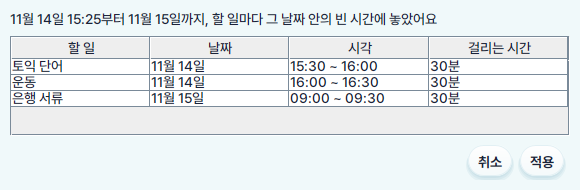
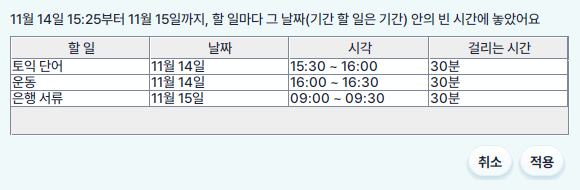
feat(schedule): 반복과 기간 할 일 2, 입력 창과 목록 1/5 (#177)

Changed region(s): [[0.5276, 0.0526, 0.931, 0.1316]]

diff --git a/prototype/qa/planningpet/qa/Flows345.java b/prototype/qa/planningpet/qa/Flows345.java
@@ -51,7 +51,7 @@ final class Flows345 {
         return q.app.store.tasks.stream().filter(t -> t.title.equals(title) && t.date.getDayOfWeek() == dow).count();
     }
 
-    /** 일정관리에서 일정 추가로 고정 일정을 매주 반복으로 넣는다. */
+    /** 일정관리에서 일정 추가로 고정 일정을 요일 반복(날짜의 요일이 골라진 채)으로 넣는다. */
     static boolean shift(Qa q, String date, String time, int minutes, String end) {
         TaskForm f = q.form(q.sched.defaultDate().toString());
         f.fixed.doClick();
@@ -59,9 +59,21 @@ final class Flows345 {
         Ui.setDate(f.date, QaDrive.d(date));
         f.start.setValue(time);
         f.minutes.setValue(minutes);
-        f.repeat.doClick();
+        f.repeat.setSelectedItem("요일");
         Ui.setDate(f.repeatEnd, LocalDate.parse(end));
         return q.save(f, null);
+    }
+
+    /** 입력 창 반복 칸: "요일 [화, 목] 끝 2027-03-02". 반복 칸이 비활성이면 "(비활성)", 끝 날짜 칸이 꺼졌으면 "(흐림)"을 붙인다. */
+    static String repeat(TaskForm f) {
+        StringBuilder days = new StringBuilder();
+        for (javax.swing.JToggleButton b : f.days) {
+            if (b.isSelected()) {
+                days.append(days.length() > 0 ? ", " : "").append(b.getText());
+            }
+        }
+        return f.repeat.getSelectedItem() + (f.repeat.isEnabled() ? "" : "(비활성)") + " [" + days + "] 끝 "
+                + Ui.dateOf(f.repeatEnd) + (f.repeatEnd.isEnabled() ? "" : "(흐림)");
     }
 
     static Qa uf31(Qa q) {
@@ -69,29 +81,31 @@ final class Flows345 {
         q.open();
         q.app.show("일정관리");
         q.step("1", "일정관리에서 일정 추가를 누른다");
+        q.has("주", "11월 16일 ~ 11월 22일", Flows8910.text(q.sched));
         TaskForm f = q.form(q.sched.defaultDate().toString());
-        q.eq("날짜, 종류, 반복 칸", "2026-11-16 할 일 false",
-                Ui.dateOf(f.date) + (f.task.isSelected() ? " 할 일 " : " 고정 일정 ") + f.repeat.isEnabled());
-        q.eq("반복 안내", "true 반복은 고정 일정만 할 수 있어요", f.repeatHint.isVisible() + " " + f.repeatHint.getText());
+        q.eq("날짜, 종류", "2026-11-16 할 일", Ui.dateOf(f.date) + (f.task.isSelected() ? " 할 일" : " 고정 일정"));
+        q.eq("반복 칸(D-64)", "안 함 [] 끝 2026-12-14(흐림)", repeat(f));
         q.step("2", "종류를 고정 일정으로 바꾼다");
         f.fixed.doClick();
-        q.eq("시작 시각 정하기(켜짐, 활성), 반복 칸", "true false true",
-                f.timed.isSelected() + " " + f.timed.isEnabled() + " " + f.repeat.isEnabled());
-        q.step("3", "편의점 알바, 11-17, 18:00, 240분을 넣고 매주 반복을 켠다");
+        q.eq("시작 시각 정하기(켜짐, 비활성), 기간 안에 하기(꺼짐, 비활성)", "true false / false false",
+                f.timed.isSelected() + " " + f.timed.isEnabled() + " / " + f.period.isSelected() + " " + f.period.isEnabled());
+        q.eq("반복 칸", "안 함 [] 끝 2027-03-01(흐림)", repeat(f));
+        q.step("3", "편의점 알바, 11-17, 18:00, 240분을 넣고 반복에서 요일을 고른다");
         f.title.setText("편의점 알바");
         Ui.setDate(f.date, QaDrive.d("2026-11-17"));
         f.start.setValue("18:00");
         f.minutes.setValue(240);
-        f.repeat.doClick();
-        q.eq("끝 시각, 반복 끝", "끝 22:00 2027-03-02", f.endLabel.getText() + " " + Ui.dateOf(f.repeatEnd));
+        f.repeat.setSelectedItem("요일");
+        q.eq("끝 시각, 반복 칸", "끝 22:00 / 요일 [화] 끝 2027-03-02", f.endLabel.getText() + " / " + repeat(f));
         q.step("4", "끝 날짜를 2026-11-10으로 바꿔 저장한다");
         Ui.setDate(f.repeatEnd, QaDrive.d("2026-11-10"));
         q.eq("저장", "false 끝 날짜가 시작 날짜보다 앞이에요", q.save(f, null) + " " + f.errorText());
-        q.step("5", "끝 날짜를 2027-05-18로 바꿔 저장한다");
+        q.step("5", "끝 날짜를 2027-05-18로 바꾼다");
         Ui.setDate(f.repeatEnd, QaDrive.d("2027-05-18"));
-        q.eq("저장", "false 반복은 26번까지예요", q.save(f, null) + " " + f.errorText());
-        q.step("6", "끝 날짜를 2026-12-15로 바꿔 저장한다");
-        Ui.setDate(f.repeatEnd, QaDrive.d("2026-12-15"));
+        q.eq("오류 글(D-43, 화요일 27개는 120개 안)", "", f.errorText());
+        q.step("6", "요일에 목을 더 고르고 끝 날짜를 2026-12-17로 바꿔 저장한다");
+        f.days[3].doClick();
+        Ui.setDate(f.repeatEnd, QaDrive.d("2026-12-17"));
         q.yes("저장", q.save(f, null));
         q.eq("화요일", "2026-11-17,2026-11-24,2026-12-01,2026-12-08,2026-12-15",
                 dates(q, "편의점 알바", java.time.DayOfWeek.TUESDAY));

diff --git a/prototype/qa/planningpet/qa/Flows12.java b/prototype/qa/planningpet/qa/Flows12.java
@@ -92,7 +92,7 @@ final class Flows12 {
         q.eq("펫", "이번 주 남은 날의 시각 없는 할 일이 3개 있어. 자동 배치를 눌러 볼래?", q.schedBubble());
         q.step("2", "자동 배치를 누른다");
         Planner.Placement p = q.place();
-        q.eq("결과 창", "11월 14일 15:25부터 11월 15일까지, 할 일마다 그 날짜 안의 빈 시간에 놓았어요"
+        q.eq("결과 창", "11월 14일 15:25부터 11월 15일까지, 할 일마다 그 날짜(기간 할 일은 기간) 안의 빈 시간에 놓았어요"
                 + " / 토익 단어|11월 14일|15:30 ~ 16:00|30분 / 운동|11월 14일|16:00 ~ 16:30|30분"
                 + " / 은행 서류|11월 15일|09:00 ~ 09:30|30분", q.placement(p));
         q.step("3", "적용을 누른다");
@@ -244,7 +244,7 @@ final class Flows12 {
         q.sched.move(QaDrive.d("2026-11-23"));
         q.eq("날짜", "2026-11-23", q.sched.defaultDate());
         q.step("3", "자동 배치를 누른다");
-        q.eq("결과 창", "11월 23일 09:00부터 11월 29일까지, 할 일마다 그 날짜 안의 빈 시간에 놓았어요"
+        q.eq("결과 창", "11월 23일 09:00부터 11월 29일까지, 할 일마다 그 날짜(기간 할 일은 기간) 안의 빈 시간에 놓았어요"
                 + " / D사 면접 준비|11월 24일|09:00 ~ 10:00|60분", q.placement(q.place()));
         q.step("4", "이전 주를 두 번 눌러 일정 추가를 누른다");
         q.sched.move(QaDrive.d("2026-11-09"));

diff --git a/prototype/qa/planningpet/qa/BlindStates.java b/prototype/qa/planningpet/qa/BlindStates.java
@@ -57,7 +57,7 @@ public final class BlindStates {
                     images, key, n++, out, "일정 삭제 확인 창(반복 아님)");
             Task fixed = app.store.tasks.stream().filter(x -> x.kind == Task.Kind.FIXED).findFirst().orElseThrow();
             TaskForm fixedForm = new TaskForm(fixed, fixed.date, app.store.now);
-            fixedForm.showSeries(app.store.book.seriesEnd(fixed));
+            fixedForm.showSeries(fixed.repeat, app.store.book.seriesEnd(fixed));
             BlindShots.shoot(TaskDialog.content(fixedForm, new JButton("취소"),
                     new JButton("저장"), new JButton("삭제")), null, "일정 수정", images, key, n++, out, "일정 입력 창(고정 일정 수정)");
             app.store.book.add(Task.Kind.TASK, "기말 프로젝트", today, null, 600, "", null);

diff --git a/prototype/qa/planningpet/qa/BlindShots.java b/prototype/qa/planningpet/qa/BlindShots.java
@@ -91,7 +91,7 @@ public final class BlindShots {
             Task series = app.store.tasks.stream().filter(x -> x.seriesId != null).findFirst().orElseThrow();
             String[] options = {"이 일정만", "이후 반복 모두", "취소"};
             javax.swing.JOptionPane ask = new javax.swing.JOptionPane("'" + series.title + "'"
-                    + Rules.josa(series.title, "은", "는") + " 매주 반복 일정이에요.",
+                    + Rules.josa(series.title, "은", "는") + " 반복 일정이에요.",
                     javax.swing.JOptionPane.QUESTION_MESSAGE, javax.swing.JOptionPane.DEFAULT_OPTION, null, options,
                     options[2]);
             shoot(ask, null, "일정 삭제", images, key, n++, out, "일정 삭제 확인 창(반복 일정)");

diff --git a/prototype/check/planningpet/check/ProtoCheck.java b/prototype/check/planningpet/check/ProtoCheck.java
@@ -196,8 +196,8 @@ public final class ProtoCheck {
                 java.time.LocalTime.of(10, 30), 75, "", java.time.LocalDate.of(2026, 12, 28));
         Task last = copies.get(copies.size() - 1);
         TaskForm f = new TaskForm(last, last.date, app.store.now);
-        f.showSeries(app.store.book.seriesEnd(last));
-        boolean shown = f.repeat.isSelected() && !f.repeat.isEnabled();
+        f.showSeries(last.repeat, app.store.book.seriesEnd(last));
+        boolean shown = "요일".equals(f.repeat.getSelectedItem()) && !f.repeat.isEnabled() && f.days[0].isSelected();
         Ui.setDate(f.date, java.time.LocalDate.of(2026, 12, 29));
         app.schedule.chooser = (title, message, options) -> 0;
         boolean saved = TaskDialog.trySave(app, f, last);

diff --git a/docs/qa/rules.md b/docs/qa/rules.md
@@ -35,14 +35,17 @@
 | 고양이 | 나의 방, 반려동물 고르기 창, 캐릭터 창 |
 | 고정 일정 | 일정관리, 일정 추가 창, 일정 수정 창 |
 | 구매하기 | 나의 방 |
-| 금 | 홈 |
+| 금 | 홈, 일정 추가 창, 일정 수정 창 |
 | 금 13 | 일정관리 |
+| 기간 | 일정 추가 창, 일정 수정 창 |
+| 기간 안에 하기 | 일정 추가 창, 일정 수정 창 |
 | 기본 목걸이 | 캐릭터 창 |
 | 기지개 | 캐릭터 창 |
 | 기타 | 나의 방 |
 | 꾸미기 | 나의 방, 캐릭터 창 |
 | 꾸미기 상점 | 나의 방 |
 | 꾸미기 적용 | 캐릭터 창 |
+| 끝 | 일정 추가 창, 일정 수정 창 |
 | 끝 15:30 | 일정 수정 창 |
 | 끝냄 | 일정관리 |
 | 나만의 공간을 꾸미고, 반려동물과 함께 시간을 보내요! | 나의 방 |
@@ -59,18 +62,16 @@
 | 다음 자세 | 캐릭터 창 |
 | 데이터 위치 | 설정 |
 | 리본 목걸이 | 캐릭터 창 |
-| 매주 반복, 끝 | 일정 추가 창, 일정 수정 창 |
 | 메모 | 일정 추가 창, 일정 수정 창 |
 | 모자 | 캐릭터 창 |
 | 모자: 안 입었어요 | 나의 방 |
-| 목 | 홈 |
+| 목 | 홈, 일정 추가 창, 일정 수정 창 |
 | 목 12 | 일정관리 |
 | 목걸이 | 캐릭터 창 |
 | 목걸이: 기본 목걸이 | 나의 방 |
 | 미리보기 | 나의 방 |
 | 미리보기 닫기 | 나의 방 |
 | 반복 | 일정 추가 창, 일정 수정 창 |
-| 반복은 고정 일정만 할 수 있어요 | 일정 추가 창, 일정 수정 창 |
 | 밥 먹기 | 캐릭터 창 |
 | 방 꾸미기 만족도 6% | 나의 방 |
 | 배치 아이템 2 / 13 | 나의 방 |
@@ -86,7 +87,7 @@
 | 설정 | 홈, 일정관리, 나의 방, 통계, 설정 |
 | 설치 파일로 설치했을 때만 쓸 수 있어요 | 설정 |
 | 성장 단계 | 캐릭터 창 |
-| 수 | 홈 |
+| 수 | 홈, 일정 추가 창, 일정 수정 창 |
 | 수 11 | 일정관리 |
 | 수정 | 홈, 일정관리 |
 | 시각 빼기 | 시각 고치기 창 |
@@ -106,7 +107,7 @@
 | 오늘 | 홈, 일정관리 |
 | 오늘 끝낸 일 | 홈 |
 | 오늘도 계획을 세우고, 조금씩 성장해요! | 홈 |
-| 월 | 홈 |
+| 월 | 홈, 일정 추가 창, 일정 수정 창 |
 | 월 9 | 일정관리 |
 | 월간 | 통계 |
 | 유형 | 일정 추가 창, 일정 수정 창 |
@@ -117,7 +118,7 @@
 | 이번 주 남은 날의 시각 없는 할 일이 3개 있어. 자동 배치를 눌러 볼래? | 일정관리 |
 | 이전 기간 | 통계 |
 | 이전 달 | 홈 |
-| 일 | 홈 |
+| 일 | 홈, 일정 추가 창, 일정 수정 창 |
 | 일 15 | 일정관리 |
 | 일정 유형별 달성률 | 통계 |
 | 일정 추가 | 홈, 일정관리 |
@@ -145,7 +146,7 @@
 | 컴퓨터 켤 때 같이 실행 | 설정 |
 | 쿠션 보유 중 ✓ | 나의 방 |
 | 털실 공 40P | 나의 방 |
-| 토 | 홈 |
+| 토 | 홈, 일정 추가 창, 일정 수정 창 |
 | 토 14 | 일정관리 |
 | 통계 | 홈, 일정관리, 나의 방, 통계, 설정 |
 | 펫 데려오기 | 나의 방 |
@@ -157,5 +158,5 @@
 | 할 일 | 일정관리, 일정 추가 창, 일정 수정 창 |
 | 함께할 반려동물을 골라 주세요 | 반려동물 고르기 창 |
 | 홈 | 홈, 일정관리, 나의 방, 통계, 설정 |
-| 화 | 홈 |
+| 화 | 홈, 일정 추가 창, 일정 수정 창 |
 | 화 10 | 일정관리 |

diff --git a/docs/qa/prototype-flows.md b/docs/qa/prototype-flows.md
@@ -3,7 +3,7 @@
 실행일 2026-11-24. `prototype/qa.sh`가 [user-flows.md](../user-flows.md)의 흐름을 창 없이 돌려 이 파일을 만든다. 손으로 고치지 않는다.
 
 - 흐름 33개 가운데 모두 통과 33개
-- 확인 392개 가운데 통과 392개, 실패 0개
+- 확인 401개 가운데 통과 401개, 실패 0개
 
 | 흐름 | 확인 | 실패 |
 |---|---|---|
@@ -16,9 +16,9 @@
 | UF-2-3 | 14 | 0 |
 | UF-2-4 | 9 | 0 |
 | UF-2-5 | 4 | 0 |
-| UF-3-1 | 13 | 0 |
-| UF-3-2 | 16 | 0 |
-| UF-3-3 | 18 | 0 |
+| UF-3-1 | 15 | 0 |
+| UF-3-2 | 18 | 0 |
+| UF-3-3 | 20 | 0 |
 | UF-4-1 | 12 | 0 |
 | UF-4-2 | 23 | 0 |
 | UF-4-3 | 4 | 0 |
@@ -29,9 +29,9 @@
 | UF-6-2 | 9 | 0 |
 | UF-6-3 | 7 | 0 |
 | UF-7-1 | 9 | 0 |
-| UF-7-2 | 19 | 0 |
-| UF-7-3 | 28 | 0 |
-| UF-7-4 | 26 | 0 |
+| UF-7-2 | 20 | 0 |
+| UF-7-3 | 29 | 0 |
+| UF-7-4 | 27 | 0 |
 | UF-8-1 | 5 | 0 |
 | UF-8-2 | 4 | 0 |
 | UF-9-1 | 3 | 0 |
